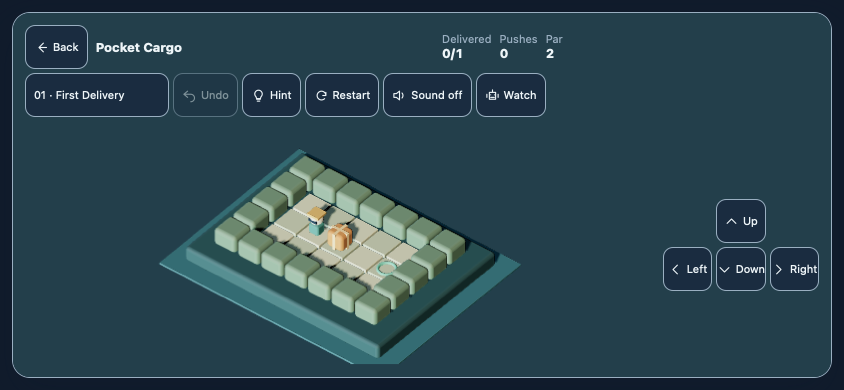
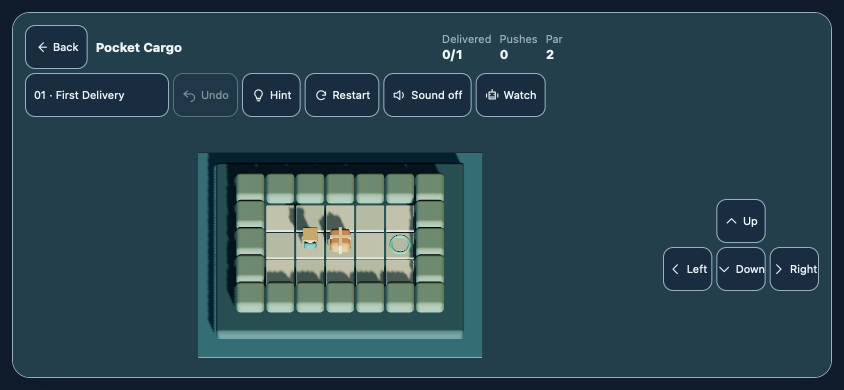
Align Pocket Cargo controls with the camera view
Use a centered, higher island camera so cardinal movement follows the screen axes. Refresh Cargo previews and device screenshots. Build and all four full browser verifiers pass.

diff --git a/src/core/stage.ts b/src/core/stage.ts
@@ -98,7 +98,7 @@ export class Stage {
     this.scene.background = new Color(background);
     this.scene.fog = preset === 'flight' ? new Fog(background, 35, 120) : null;
     this.camera = preset === 'flight' ? this.perspective : this.ortho;
-    this.camera.position.set(...(preset === 'board' ? [0, 0, 20] : preset === 'island' ? [8, 11, 10] : preset === 'arena' ? [0, 18, 15] : [0, 4.1, 9]) as [
+    this.camera.position.set(...(preset === 'board' ? [0, 0, 20] : preset === 'island' ? [0, 18, 8] : preset === 'arena' ? [0, 18, 15] : [0, 4.1, 9]) as [
       number,
       number,
       number

diff --git a/progress.md b/progress.md
@@ -292,3 +292,8 @@ Original prompt: Revisit all games in this project and make them more fun to pla
 - Final complete gates pass on frozen source: WebKit layout 131.475 seconds, games 44.45 seconds, AI 24.84 seconds; Chromium cold-offline 51.26 seconds including real first-to-three and cache update/removal/cold reload. Full matches preserve the 90-second deadline, winner 1 and score 3. The Dash touch subtest uses a fresh native New match to avoid a scoring/kickoff race; its cooldown assertion is unchanged. Prior failures remain archived.
 - Final source is 5202 lines in 44 files; CSS 481 lines in 3 files; scripts 1855 lines in 7 files. The largest model+view+HUD is 430 lines. Build:decision passes with all five pinned resources; build bytes 31134791, 33 precache entries and cache fingerprint aeroplay-e9f93392bdeb. The native Mac Safari inspection could not run while the Mac was locked; physical iPhone/Home Screen validation remains a stated device limitation.
 - P4 final staging contains 99 task files, +5686/-1628 text lines, with no unrelated or remaining unstaged/untracked paths. Source/test fingerprints independently match all four full PASS results. The required browser client was rerun after the correction; active gameplay, native movement/dash, one resident model and no console errors were verified and its latest screenshot inspected. Publication follows the single authorized main push and post-push verification.
+
+## Pocket Cargo screen-aligned camera (2026-10-15)
+- User reported that the diagonal view made cardinal controls ambiguous. The Cargo-only island preset now looks straight along the board columns from a higher angle, keeping Three geometry and depth while aligning Up/Down vertically and Left/Right horizontally. Input mappings, saves, hint directions and game rules are unchanged.
+- Before/after browser projection confirms the old diagonal drift and zero cross-axis drift after the camera adjustment. WebKit checks pass four native directions, Undo, phone swipes and all twelve level layouts at portrait phone, landscape phone and MacBook sizes. The required game client also exercised a four-direction keyboard sequence; its screenshot and state were inspected with no browser errors. Refreshed the Cargo hub preview and three current page screenshots.
+- Final build and complete layout/gameplay/AI/offline verifiers pass: the first three use WebKit, and cold offline/cache-update verification uses Chromium on the freshly built assets. Source/test fingerprints remain frozen throughout; the earlier offline run against the previous dist is retained separately as pre-build evidence. No assertion or game-rule changes were needed.
